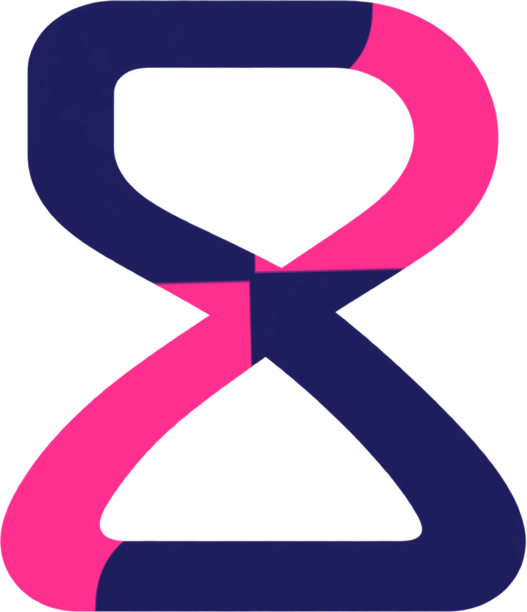
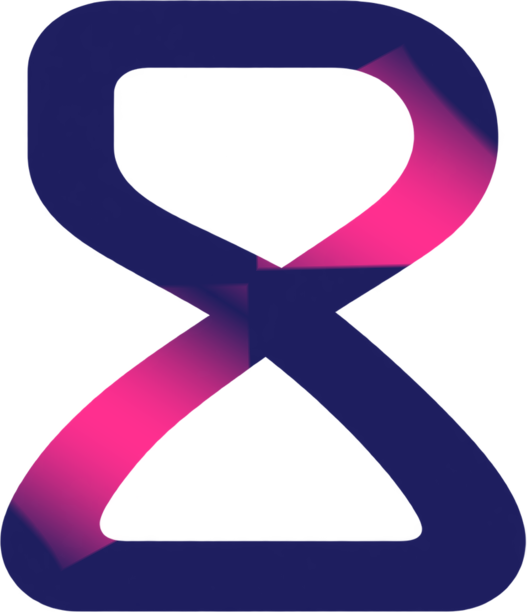
style(web): 로고 색 흐름을 다시 잡고 칩·저장 화면을 정리한다
로고는 위아래 막대와 교차점을 남색으로 두고, 그 사이에서 분홍이 부풀었다 잦아들게
바꿨다. 앞서 획 하나를 통째로 칠했더니 두 색이 맞붙어 딱딱했다. 막대에서 뻗어 나와
교차점에서 다시 가라앉는 흐름이라 작은 크기에서도 한 줄로 읽힌다.

필터 칩은 선택된 쪽을 주색으로 꽉 채우고 글씨를 뒤집는다. 테두리 색만 바꾸던
방식은 무엇이 켜졌는지 멀리서 안 읽혔다. 저장 화면의 빈 상태도 흰 카드로 묶어
다른 화면과 맞추고, 비어 있을 때의 `홈으로 이동` 버튼은 뺐다.

트리맵은 옅은 칸과 진한 칸의 차이가 작아 순위가 안 보였다. 양 끝을 벌려 대비를 넓힌다.
상세 화면은 쓰이지 않던 페이지 모서리 곡률을 걷고 요약 카드에 위 여백을 줬다.

Changed region(s): [[0.6679, 0.0, 0.9715, 0.3415], [0.2429, 0.3725, 0.759, 0.683], [0.0, 0.7141, 0.2429, 1.0]]

diff --git a/apps/web/src/styles/global.css b/apps/web/src/styles/global.css
@@ -1231,7 +1231,6 @@ a:focus-visible,
    모션 감소 설정에서는 전역 규칙이 이 애니메이션을 끈다. */
 .page--detail {
   background: var(--djv-color-bg);
-  border-radius: var(--djv-radius-xl) var(--djv-radius-xl) 0 0;
   animation: page-sheet-up var(--djv-motion-screen) var(--djv-easing-standard);
 }
 
@@ -1274,7 +1273,7 @@ a:focus-visible,
 
 .theme-summary {
   min-height: 150px;
-  margin: 0 var(--djv-space-4) 10px;
+  margin: var(--djv-space-2) var(--djv-space-4) 10px;
   padding: var(--djv-space-5);
   border-radius: var(--djv-radius-xl);
   color: var(--djv-color-on-brand);
@@ -2219,6 +2218,17 @@ a:focus-visible,
 
 /* --------------------------------------------------------- 즐겨찾기 */
 
+/* 바탕이 회색이라 구역 내용이 맨바닥에 놓인다. 카드로 묶어 다른 화면과 맞춘다. */
+.page--saved .state-panel,
+.page--saved .library-empty {
+  margin: 0 var(--djv-space-4) var(--djv-space-3);
+  padding: var(--djv-space-6) var(--djv-space-4);
+  border: 1px solid var(--djv-color-border);
+  border-radius: var(--djv-radius-xl);
+  background: var(--djv-color-surface);
+  box-shadow: var(--djv-shadow-card);
+}
+
 .library-heading {
   display: flex;
   min-height: 34px;
@@ -2246,21 +2256,25 @@ a:focus-visible,
   scrollbar-width: thin;
 }
 
+/* 선택은 주색으로 꽉 채우고 글씨를 뒤집는다. 테두리만 바꾸면 무엇이 켜졌는지
+   멀리서 안 읽힌다. */
 .filter-row button {
-  height: 34px;
+  height: 38px;
   flex: none;
-  padding: 0 13px;
+  padding: 0 17px;
   border: 1px solid var(--djv-color-border);
   border-radius: var(--djv-radius-pill);
-  color: var(--djv-color-text-muted);
+  color: var(--djv-color-text);
   background: var(--djv-color-surface);
+  font-size: var(--djv-font-size-label);
+  font-weight: 700;
+  box-shadow: var(--djv-shadow-card);
 }
 
 .filter-row button[aria-selected="true"] {
-  border-color: var(--djv-color-brand);
-  color: var(--djv-brand-contrast);
-  background: var(--djv-color-brand-soft);
-  font-weight: 600;
+  border-color: transparent;
+  color: var(--djv-color-on-brand);
+  background: var(--djv-color-brand);
 }
 
 .saved-list {

diff --git a/apps/web/src/styles/tokens.css b/apps/web/src/styles/tokens.css
@@ -35,8 +35,8 @@
   /* 트리맵 타일 채움 범위. 옅은 분홍에서 시작하면 흰 글씨가 묻히고 본문 색도 어중간해
      타일마다 글자색이 달라진다. 약한 칸도 흰 글씨가 읽히는 농도에서 시작해
      강한 칸으로 갈수록 더 짙어지게 둔다. */
-  --djv-color-tile-up-weak: #ff2d8e;
-  --djv-color-tile-up-strong: #b0005c;
+  --djv-color-tile-up-weak: #ff5aa8;
+  --djv-color-tile-up-strong: #8f0049;
   --djv-color-tile-down-weak: #3f6fd8;
   --djv-color-tile-down-strong: #1b3a86;
   /* 하락 칸 배경. up-soft와 같은 밝기로 맞춘 파랑이다. */

diff --git a/apps/web/src/pages/SavedPage.tsx b/apps/web/src/pages/SavedPage.tsx
@@ -206,7 +206,6 @@ export function SavedPage({ onLogout }: { onLogout: () => Promise<void> }) {
           <EmptyState
             title="저장한 항목이 없습니다"
             description="홈과 실시간에서 관심 있는 테마를 찾아 저장해 보세요."
-            action={<Link className="button button--secondary" to="/today">홈으로 이동</Link>}
           />
         ) : null}
         {resource.status === 'success' && resource.data.data.items.length ? (
